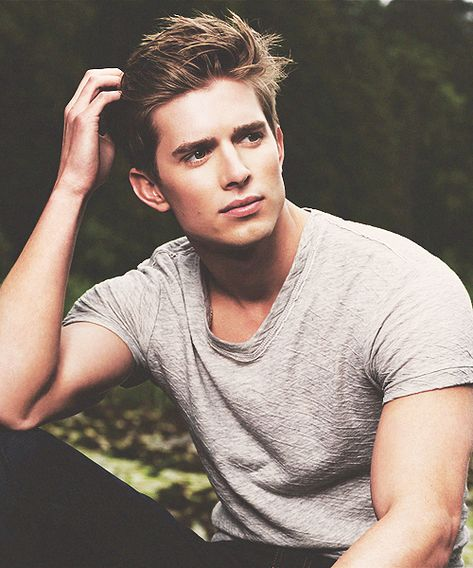
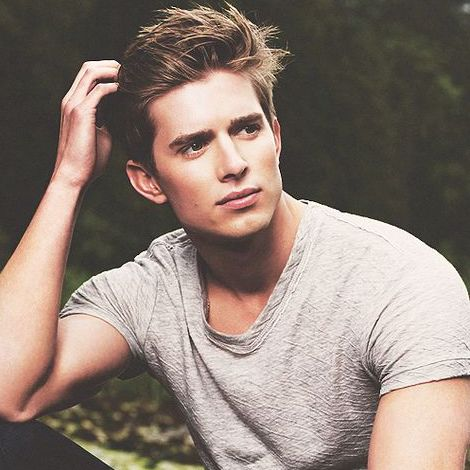
Upload for CSS version
v2.0

diff --git a/index.html b/index.html
@@ -3,112 +3,57 @@
 
 <head>
   <meta charset="utf-8">
-  <title>TVB's Personal Site</title>
+  <title>CCTVB</title>
+  <link rel="stylesheet" href="css/styles.css">
+  <link rel="icon" href="favicon.ico">
+  <link rel="preconnect" href="https://fonts.googleapis.com">
+  <link rel="preconnect" href="https://fonts.gstatic.com" crossorigin>
+  <link href="https://fonts.googleapis.com/css2?family=Josefin+Sans&family=Lato&family=Redressed&display=swap" rel="stylesheet">
 </head>
 
 <body>
-  <table cellspacing="20">
-    <td><img src="images/handsome_guy.jpeg" alt="Handsome guy picture"></td>
-    <td>
-      <h1>CC TVB</h1>
-      <a href="https://www.instagram.com/_drew_van_acker/">Find me on Instagram!</a>
-      <em>
-        <p>Father of three daughters</st>
-        </p>
-      </em>
-      <p>I am a man and have three kids</p>
-    </td>
-  </table>
-  <hr>
-  <h3>Names of daughters</h3>
-  <em>
-    <ul>
-      <li>Athena</li>
-      <li>Aurora</li>
-      <li>Artemis</li>
-    </ul>
-  </em>
-  <hr>
-  <h3>Daughters' info</h3>
-  <table border="1">
-    <thead>
-      <tr>
-        <th>NAME</th>
-        <th>YEAR OF BORN</th>
-        <th>HEIGHT</th>
-      </tr>
-    </thead>
-    <tbody>
-      <tr>
-        <td>Athena</td>
-        <td>2015</td>
-        <td>103cm</td>
-      </tr>
-      <tr>
-        <td>Aurora</td>
-        <td>2018</td>
-        <td>91cm</td>
-      </tr>
-      <tr>
-        <td>Artemis</td>
-        <td>2021</td>
-        <td>77cm</td>
-      </tr>
-    </tbody>
-  </table>
-  <br>
-  <hr>
-  <h3>
-    Skills
-  </h3>
-  <table>
-    <td>
-      <table cellspacing="5">
-        <tr>
-          <td>Eating</td>
-          <td>⭐⭐⭐⭐⭐</td>
-        </tr>
-        <tr>
-          <td>Playing</td>
-          <td>⭐⭐⭐⭐⭐</td>
-        </tr>
-      </table>
-    </td>
-    <td>
-      <table cellspacing="5">
-        <tr>
-          <td>Singing</td>
-          <td>⭐⭐⭐⭐⭐</td>
-        </tr>
-        <tr>
-          <td>Dancing</td>
-          <td>⭐⭐⭐⭐⭐</td>
-        </tr>
-      </table>
-    </td>
-  </table>
-  <hr>
-  <br>
-  <a href="daughters.html">Daughters' favourite</a>
-  <br>
+  <div class="top_container">
+    <img class="top_cloud" src="images/cloud.png" alt="cloud-img">
+    <h1>I'm CCTVB.</h1>
+    <h2>a pre-programmer.</h2>
+    <img class="bottom_cloud" src="images/cloud.png" alt="cloud-img">
+    <img src="images/mountain.png" alt="mountain-img">
+  </div>
+  <div class="middle-container">
+    <div class="profile">
+      <img class="handsome_img" src="images/handsome_guy.jpeg" alt="handsome-img">
+      <h2>Hello.</h2>
+      <p>I am a youtuber and I love coding and photography.</p>
+    </div>
+    <hr>
+    <div class="skills">
+      <h2>My Skills.</h2>
+      <div class="skill-row">
+        <img class="skill_img1" src="images/youtube-kids.png" alt="youtube-icon">
+        <h3 class="">I produce funny interview contents!</h3>
+        <p class="">Stay creative and make people happy, I started my youtube channels in 2016.</p>
+      </div>
+      <div class="skill-row">
+        <img class="skill_img2" src="images/photography.png" alt="photography-icon">
+        <h3 class="">Call me video master!</h3>
+        <p class="">From shooting to editing, and from technical to workflow, I know everything about video production!</p>
+      </div>
+    </div>
+    <hr>
+    <div class="contact-me">
+      <h2>Get In Touch</h2>
+      <h3>I like to make friends all around the world.</h3>
+      <p>No matter you want to chat with me or you have questions on my expert field, just send me a text.</p>
+      <button class="btn" type="button" name="email_button">CONTACT ME</button>
+    </div>
+  </div>
+  <div class="bottom-container">
+    <a class="footer-link" href="https://www.instagram.com/_drew_van_acker/">Instagram</a>
+    <a class="footer-link" href="https://www.youtube.com/c/HIFIVEHK">HIFIVE Channel</a>
+    <a class="footer-link" href="https://www.youtube.com/c/MBPPRODUCE">MBP Channel</a>
+    <p class="credit">© 2022 CCTVB.</p>
+  </div>
 
-  <br>
-  <a href="mailto: silwaltz@outlook.com">Click to send me an Email </a>
-  <p>or fill the below form and I will look for you</p>
-  <form class="" action="mailto: silwaltz@outlook.com" method="post" enctype="text/plain">
-    <label for="">Your Name:</label>
-    <input type="text" name="yourName" value="">
-    <br>
-    <label for="">Your Email:</label>
-    <input type="email" name="yourEmail" value="">
-    <br>
-    <label for="">Your Message:</label>
-    <br>
-    <textarea name="yourMessage" rows="10" cols="30"></textarea>
-    <br>
-    <input type="submit" name="" value="submit">
-    <br>
-  </form>
 </body>
 
 </html>

diff --git a/css/styles.css b/css/styles.css
@@ -1,0 +1,134 @@
+body {
+  color: #40514E;
+  margin: 0px;
+  text-align: center;
+  /* if have width use margin: auto */
+  font-family: 'Josefin Sans', sans-serif;
+}
+
+h1 {
+  margin: 50px auto 0 auto;
+  font-family: 'Redressed', cursive;
+  font-size: 5.62rem;
+  /* 100% = 16px = 1em/rem */
+  color: #66BFBF;
+  /* line-height: 2; */
+}
+
+h2 {
+  font-family: 'Lato', sans-serif;
+  font-size: 2.5rem;
+  font-weight: normal;
+  color: #66BFBF;
+}
+
+h3 {
+  font-family: 'Lato', sans-serif;
+  color: #11999E;
+}
+
+a {
+  color: #11999E;
+  text-decoration: none;
+}
+
+a:hover {
+  color: #EAF6F6;
+}
+
+p {
+    line-height: 2;
+}
+
+hr {
+  border: 8px dotted grey;
+  width: 5%;
+  border-style: none none dotted;
+  margin-top: 100px;
+  margin-bottom: 100px;
+}
+
+.top_container {
+  background-color: #CDF0EA;
+  padding-top: 100px;
+}
+
+.top_cloud {
+  position: absolute;
+  right: 500px;
+  top: 50px;
+}
+
+.bottom_cloud {
+  position: absolute;
+  left: 450px;
+  top: 360px;
+}
+
+.handsome_img {
+  margin-top: 50px;
+  height: 200px;
+  border-radius: 50%;
+}
+
+.skill_img1 {
+  width: 150px;
+  float: left;
+  margin-right: 30px;
+}
+
+.skill_img2 {
+  width: 150px;
+  float: right;
+  margin-left: 15px;
+}
+
+.skill-row {
+  width: 50%;
+  margin: 100px auto 100px auto;
+  text-align: left;
+
+}
+
+.btn {
+  background: #11cdd4;
+  background-image: -webkit-linear-gradient(top, #11cdd4, #11999e);
+  background-image: -moz-linear-gradient(top, #11cdd4, #11999e);
+  background-image: -ms-linear-gradient(top, #11cdd4, #11999e);
+  background-image: -o-linear-gradient(top, #11cdd4, #11999e);
+  background-image: linear-gradient(to bottom, #11cdd4, #11999e);
+  -webkit-border-radius: 8;
+  -moz-border-radius: 8;
+  border-radius: 8px;
+  font-family: 'Lato', sans-serif;
+  color: #ffffff;
+  font-size: 16px;
+  padding: 10px 20px 10px 20px;
+  text-decoration: none;
+  margin: 30px 0 70px 0;
+}
+
+.btn:hover {
+  background: #30e3cb;
+  background-image: -webkit-linear-gradient(top, #30e3cb, #2bc4ad);
+  background-image: -moz-linear-gradient(top, #30e3cb, #2bc4ad);
+  background-image: -ms-linear-gradient(top, #30e3cb, #2bc4ad);
+  background-image: -o-linear-gradient(top, #30e3cb, #2bc4ad);
+  background-image: linear-gradient(to bottom, #30e3cb, #2bc4ad);
+  text-decoration: none;
+}
+
+.bottom-container {
+  background-color: #66BFBF;
+  padding: 50px;
+}
+
+.footer-link {
+    margin: 0 30px 0 30px;
+}
+
+.credit {
+  margin-top: 50px;
+  color: #EAF6F6;
+  font-size: 0.8rem;
+}
